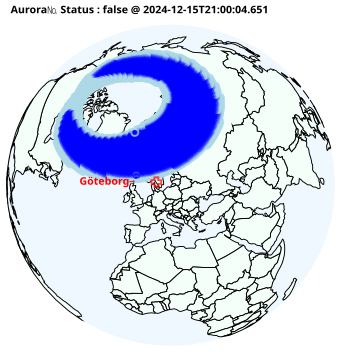
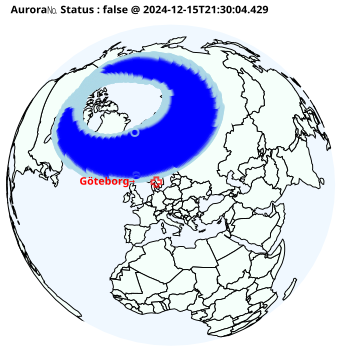
20241215213017 added aur.html

diff --git a/aur.html b/aur.html
@@ -7,6 +7,6 @@
 <body>
     <h1>Aurora Watch</h1>
     <img src="a.png" alt="Aurora Image" style="width:100%;max-width:600px;">
-    <p>Aurora Level 🌌= (1.5) was observed. (2024-12-15T21:00:04.651)</p>
+    <p>Aurora Level 🌌= (1.5) was observed. (2024-12-15T21:30:04.429)</p>
 </body>
 </html>
